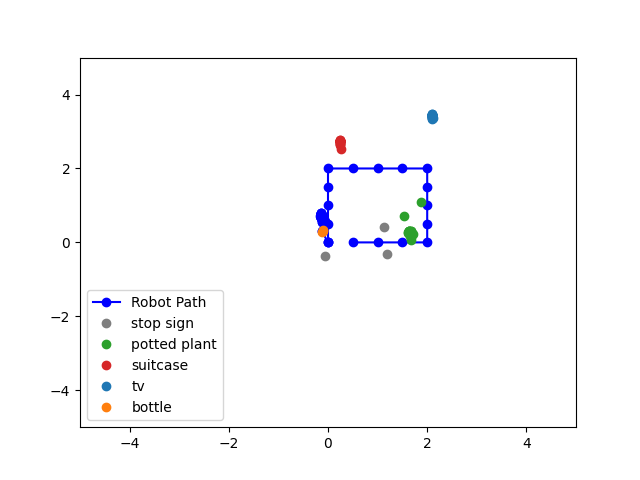
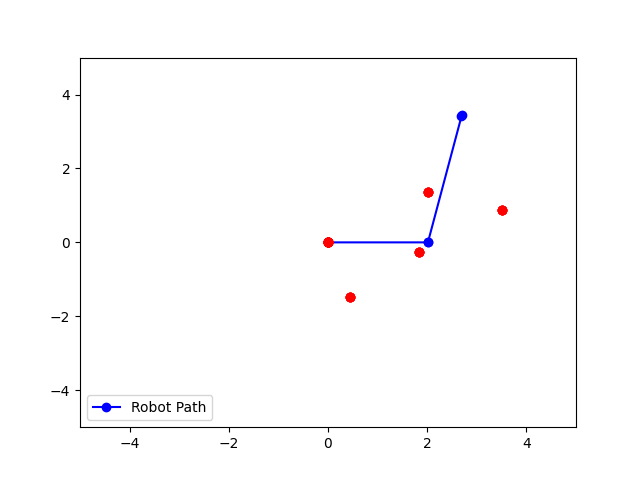
revert slam_control

diff --git a/rb5_control/src/hw3_slam_control.py b/rb5_control/src/hw3_slam_control.py
@@ -7,48 +7,120 @@ import numpy as np
 import matplotlib.pyplot as plt
 import time
 
+class EKFSLAM:
+    def __init__(self, object_list):
+        # Initialize SLAM state (robot pose and landmarks)
+        self.state = np.zeros((3 + 2 * len(object_list), 1))  # [x, y, theta, x1, y1, x2, y2, ...]
+        self.P = np.eye(3 + 2 * len(object_list)) * 1000  # Large initial uncertainty for landmarks
+        self.R = np.diag([0.1, 0.1])  # Measurement noise for range and bearing
+        self.Q = np.diag([0.05, 0.05, 0.01])  # Process noise for [x, y, theta]
+        self.object_list = object_list
+        self.colors = plt.cm.get_cmap('tab10', len(object_list))
+
+    def predict(self, control_input):
+        """Predict step for EKF based on control input."""
+        x, y, theta = self.state[0, 0], self.state[1, 0], self.state[2, 0]
+        distance, heading_change = control_input
+
+        # Predict the new state based on control input
+        new_x = x + distance * np.cos(theta)
+        new_y = y + distance * np.sin(theta)
+        new_theta = theta + heading_change
+        new_theta = (new_theta + np.pi) % (2 * np.pi) - np.pi  # Normalize theta
+
+        # Update state
+        self.state[0, 0] = new_x
+        self.state[1, 0] = new_y
+        self.state[2, 0] = new_theta
+
+        # Create an expanded process noise matrix that matches the size of P
+        Q_expanded = np.zeros_like(self.P)
+        Q_expanded[:3, :3] = self.Q  # Place Q in the top-left corner to affect only robot pose
+
+        # Update the covariance (process model) with the expanded process noise
+        F = np.eye(len(self.state))
+        F[0, 2] = -distance * np.sin(theta)
+        F[1, 2] = distance * np.cos(theta)
+        self.P = F @ self.P @ F.T + Q_expanded
+
+    def update(self, measurement, obj_index):
+        """Update step for EKF using the landmark position relative to world frame."""
+        x, y, theta = self.state[0, 0], self.state[1, 0], self.state[2, 0]
+        obj_x, obj_y = measurement  # World coordinates of the detected object
+        landmark_idx = 3 + 2 * int(obj_index)
+        
+        if self.P[landmark_idx, landmark_idx] > 999:
+            self.state[landmark_idx, 0] = obj_x
+            self.state[landmark_idx + 1, 0] = obj_y
+            self.P[landmark_idx:landmark_idx + 2, landmark_idx:landmark_idx + 2] = np.eye(2) * 100
+
+        # Compute measurement prediction
+        delta_x = self.state[landmark_idx, 0] - x
+        delta_y = self.state[landmark_idx + 1, 0] - y
+        q = delta_x**2 + delta_y**2
+        predicted_distance = np.sqrt(q)
+        predicted_bearing = np.arctan2(delta_y, delta_x) - theta
+
+        actual_distance = np.sqrt((obj_x - x)**2 + (obj_y - y)**2)
+        actual_bearing = np.arctan2(obj_y - y, obj_x - x) - theta
+        innovation = np.array([[actual_distance - predicted_distance], [actual_bearing - predicted_bearing]])
+        innovation[1, 0] = (innovation[1, 0] + np.pi) % (2 * np.pi) - np.pi  # Normalize bearing
+
+        # Calculate Jacobian H of the measurement function
+        H = np.zeros((2, len(self.state)))
+        H[0, 0] = -delta_x / predicted_distance
+        H[0, 1] = -delta_y / predicted_distance
+        H[1, 0] = delta_y / q
+        H[1, 1] = -delta_x / q
+        H[0, landmark_idx] = delta_x / predicted_distance
+        H[0, landmark_idx + 1] = delta_y / predicted_distance
+        H[1, landmark_idx] = -delta_y / q
+        H[1, landmark_idx + 1] = delta_x / q
+
+        # Compute the innovation covariance
+        S = H @ self.P @ H.T + self.R
+
+        # Compute the Kalman gain
+        K = self.P @ H.T @ np.linalg.inv(S)
+
+        # Update the state and covariance matrix
+        self.state += K @ innovation
+        self.P = (np.eye(len(self.state)) - K @ H) @ self.P
+
 class SlamControlNode(Node):
     def __init__(self):
         super().__init__('slam_control_node')
-        self.movement_pub = self.create_publisher(Float32MultiArray, '/movement_command', 10)
-        self.twist_pub = self.create_publisher(Twist, '/twist', 10)
-        
-        # Subscription to receive EKF SLAM state
-        self.ekf_state_sub = self.create_subscription(
-            Float32MultiArray, '/ekf_slam_state', self.update_plot, 10
-        )
-        
-        # Subscription for detected object information
-        self.object_sub = self.create_subscription(
+        self.publisher_ = self.create_publisher(Twist, '/twist', 10)
+        self.subscription = self.create_subscription(
             Float32MultiArray, '/detected_object_info', self.object_callback, 10
         )
-        
         self.objects_to_detect = ['tv', 'bottle', 'potted plant', 'suitcase', 'umbrella', 'teddy bear', 'backpack', 'stop sign', 'oven', 'airplane']
+        self.ekf_slam = EKFSLAM(self.objects_to_detect)
         self.fig, self.ax = plt.subplots()
         self.set_plot_limits()
         self.robot_positions = []  # Store estimated robot positions from EKF
         self.detected_objects = []  # Store positions of detected objects
+  #      self.spin_and_track()
 
     def set_plot_limits(self):
         self.ax.set_xlim(-5, 5)
         self.ax.set_ylim(-5, 5)
 
     def object_callback(self, msg):
-        # Here we assume distance and angle are relative to the robot's current position
         distance, angle, obj_index = msg.data
-        movement_msg = Float32MultiArray()
-        movement_msg.data = [distance, angle, obj_index]
-        self.movement_pub.publish(movement_msg)  # Publish movement command to EKF node
+        robot_x, robot_y, theta = self.ekf_slam.state[0, 0], self.ekf_slam.state[1, 0], self.ekf_slam.state[2, 0]
+        obj_x = robot_x + distance * np.cos(theta + angle)
+        obj_y = robot_y + distance * np.sin(theta + angle)
 
-    def update_plot(self, msg):
-        state_data = msg.data
-        robot_x, robot_y, theta = state_data[:3]
+        # Update EKF with the world-frame coordinates of the detected object
+        self.ekf_slam.update((obj_x, obj_y), int(obj_index))
+
+        object_name = self.objects_to_detect[int(obj_index)]
+        print(f"Robot Position: (x={robot_x:.2f}, y={robot_y:.2f}, theta={theta:.2f})")
+        print(f"Detected {object_name} at world position (x={obj_x:.2f}, y={obj_y:.2f})")
+
         self.robot_positions.append([robot_x, robot_y])
-        
-        for i in range(3, len(state_data), 2):
-            obj_x, obj_y = state_data[i], state_data[i+1]
-            self.detected_objects.append((obj_x, obj_y))
-
+        self.detected_objects.append((obj_x, obj_y, object_name))
         self.update_and_plot()
 
     def update_and_plot(self):
@@ -56,12 +128,15 @@ class SlamControlNode(Node):
         self.set_plot_limits()
         self.ax.plot(*zip(*self.robot_positions), 'bo-', label="Robot Path")
 
-        # Plot each detected object at its calculated position
-        for obj in self.detected_objects:
-            obj_x, obj_y = obj
-            self.ax.plot(obj_x, obj_y, 'ro')
+        legend_labels = {"Robot Path": self.ax.plot([], [], 'bo-', label="Robot Path")[0]}
+        for x, y, name in self.detected_objects:
+            color = self.ekf_slam.colors(self.objects_to_detect.index(name))
+            if name not in legend_labels:
+                legend_labels[name] = self.ax.plot(x, y, 'o', color=color, label=name)[0]
+            else:
+                self.ax.plot(x, y, 'o', color=color)
 
-        self.ax.legend(loc='lower left')
+        self.ax.legend(handles=legend_labels.values(), loc='lower left')
         plt.draw()
         plt.pause(0.1)
         self.save_plot()
@@ -72,32 +147,99 @@ class SlamControlNode(Node):
         print(f"Plot saved as {filename}")
 
     def spin_and_track(self, type, length):
-        if type == 'move':
+        
+        # self.move_forward(0.5)
+        # self.save_plot()
+        # time.sleep(1)
+
+        # self.move_forward(0.5)
+        # self.save_plot()
+        # time.sleep(1)
+        
+        # for _ in range(4):
+        #     for _ in range(4):  # Stop every 0.5 meters
+        #         self.move_forward(0.5)
+        #         self.save_plot()
+        #         time.sleep(1)
+        #     self.turn_90_degrees()
+        #     self.save_plot()
+        #     time.sleep(1)
+
+        if (type == 'move'):
             self.move_forward(length)
-        elif type == 'spin' and length == 90:
-            self.turn_90_degrees()
+        elif (type == 'spin'):
+            if (length == 90):
+                self.turn_90_degrees()
+            elif (length == 45):
+                self.turn_90_degrees()            # MAKE NEW FUNCTION FOR 45 DEGREE TURN FOR OCTOGON
+
+        self.save_plot()
+        time.sleep(1)
+
+        self.plot_final_landmarks()
+        self.print_final_coordinates()
 
     def move_forward(self, distance):
-        movement_msg = Float32MultiArray()
-        movement_msg.data = [distance, 0]
-        self.movement_pub.publish(movement_msg)
+        print("Moving forward by 0.5 meters")
+        control_input = [distance, 0]
+        self.ekf_slam.predict(control_input)
+
+        move_twist = Twist()
+        move_twist.linear.x = 2.0
+        self.publisher_.publish(move_twist)
+        time.sleep(distance / 0.5)
+        move_twist.linear.x = 0.0
+        self.publisher_.publish(move_twist)
+
+        robot_x, robot_y = self.ekf_slam.state[0, 0], self.ekf_slam.state[1, 0]
+        self.robot_positions.append([robot_x, robot_y])
+        print(f"Updated Position: x = {robot_x}, y = {robot_y}")
 
     def turn_90_degrees(self):
-        movement_msg = Float32MultiArray()
-        movement_msg.data = [0, np.pi / 2]
-        self.movement_pub.publish(movement_msg)
+        print("Turning 90 degrees")
+        control_input = [0, np.pi / 2]
+        self.ekf_slam.predict(control_input)
+
+        turn_twist = Twist()
+        turn_twist.angular.z = 8.0
+        self.publisher_.publish(turn_twist)
+        time.sleep(np.pi / 2)
+        turn_twist.angular.z = 0.0
+        self.publisher_.publish(turn_twist)
+
+        print(f"Updated Heading (theta): {self.ekf_slam.state[2, 0]} radians")
+
+    def plot_final_landmarks(self):
+        self.ax.clear()
+        self.set_plot_limits()
+        self.ax.plot(*zip(*self.robot_positions), 'bo-', label="Robot Path")
+
+        legend_labels = {"Robot Path": self.ax.plot([], [], 'bo-', label="Robot Path")[0]}
+        for x, y, name in self.detected_objects:
+            color = self.ekf_slam.colors(self.objects_to_detect.index(name))
+            legend_labels[name] = self.ax.plot(x, y, 'o', color=color, label=name)[0]
+
+        self.ax.legend(handles=legend_labels.values(), loc='lower left')
+        plt.title("Robot Path and Final Detected Object Positions")
+        plt.xlabel("X position (meters)")
+        plt.ylabel("Y position (meters)")
+        plt.show()
+        self.save_plot()
+
+    def print_final_coordinates(self):
+        print("\nFinal Coordinates of Detected Objects:")
+        for i, obj_name in enumerate(self.objects_to_detect):
+            landmark_idx = 3 + 2 * i
+            obj_x, obj_y = self.ekf_slam.state[landmark_idx, 0], self.ekf_slam.state[landmark_idx + 1, 0]
+            print(f"{obj_name}: (x = {obj_x:.2f}, y = {obj_y:.2f})")
 
 def main(args=None):
     rclpy.init(args=args)
     node = SlamControlNode()
 
-    try:
-        rclpy.spin(node)
-    except KeyboardInterrupt:
-        pass
+    print("SLAM 1")
 
-
-        # TRY 1
+    # TRY 1
     for _ in range(4):
         for _ in range(4):  # Stop every 0.5 meters
             print("SLAM loop")
@@ -137,6 +279,7 @@ def main(args=None):
     #     time.sleep(1)
     #     # rclpy.spin_once(node)
     #     # time.sleep(1)
+
 
     node.destroy_node()
     rclpy.shutdown()
